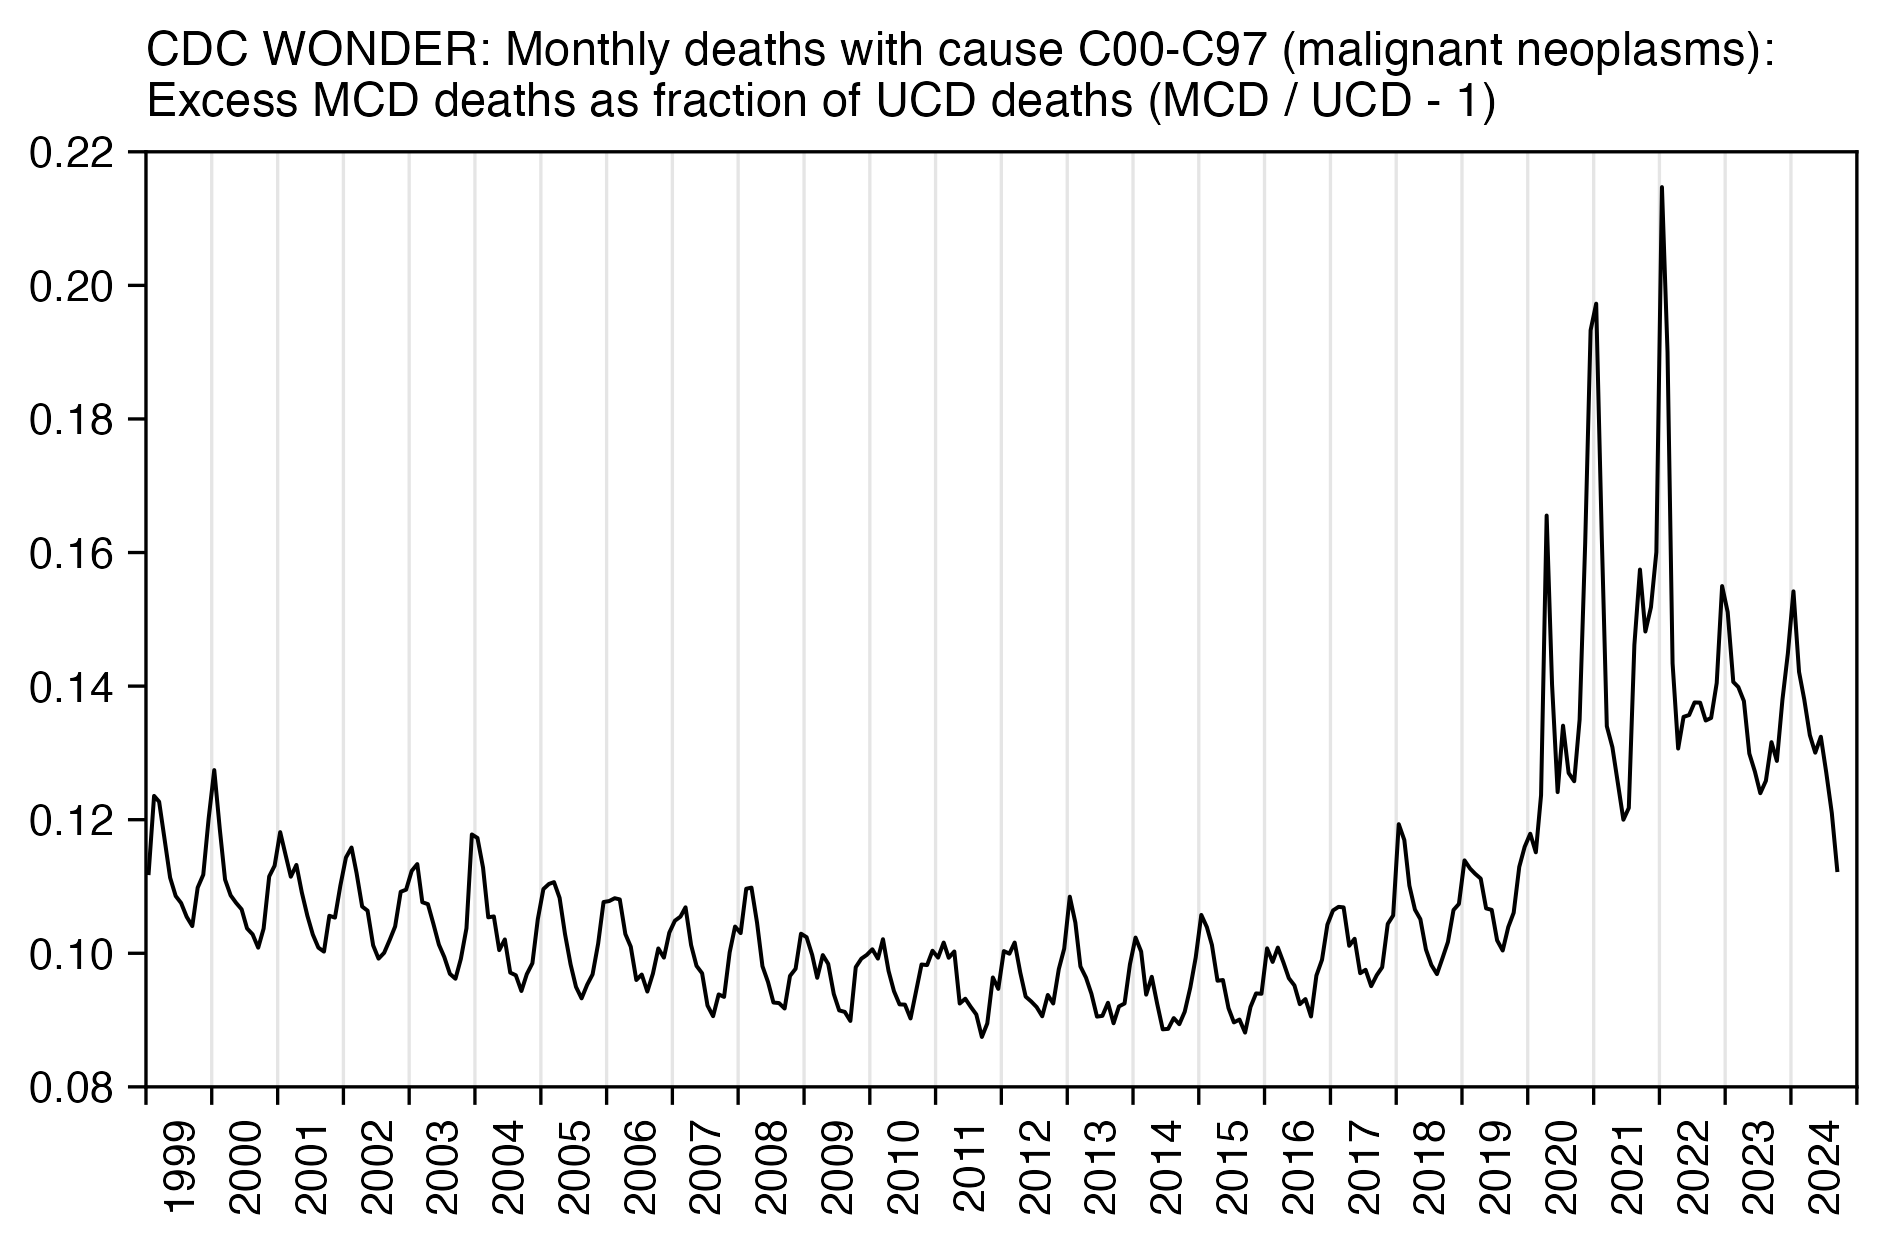
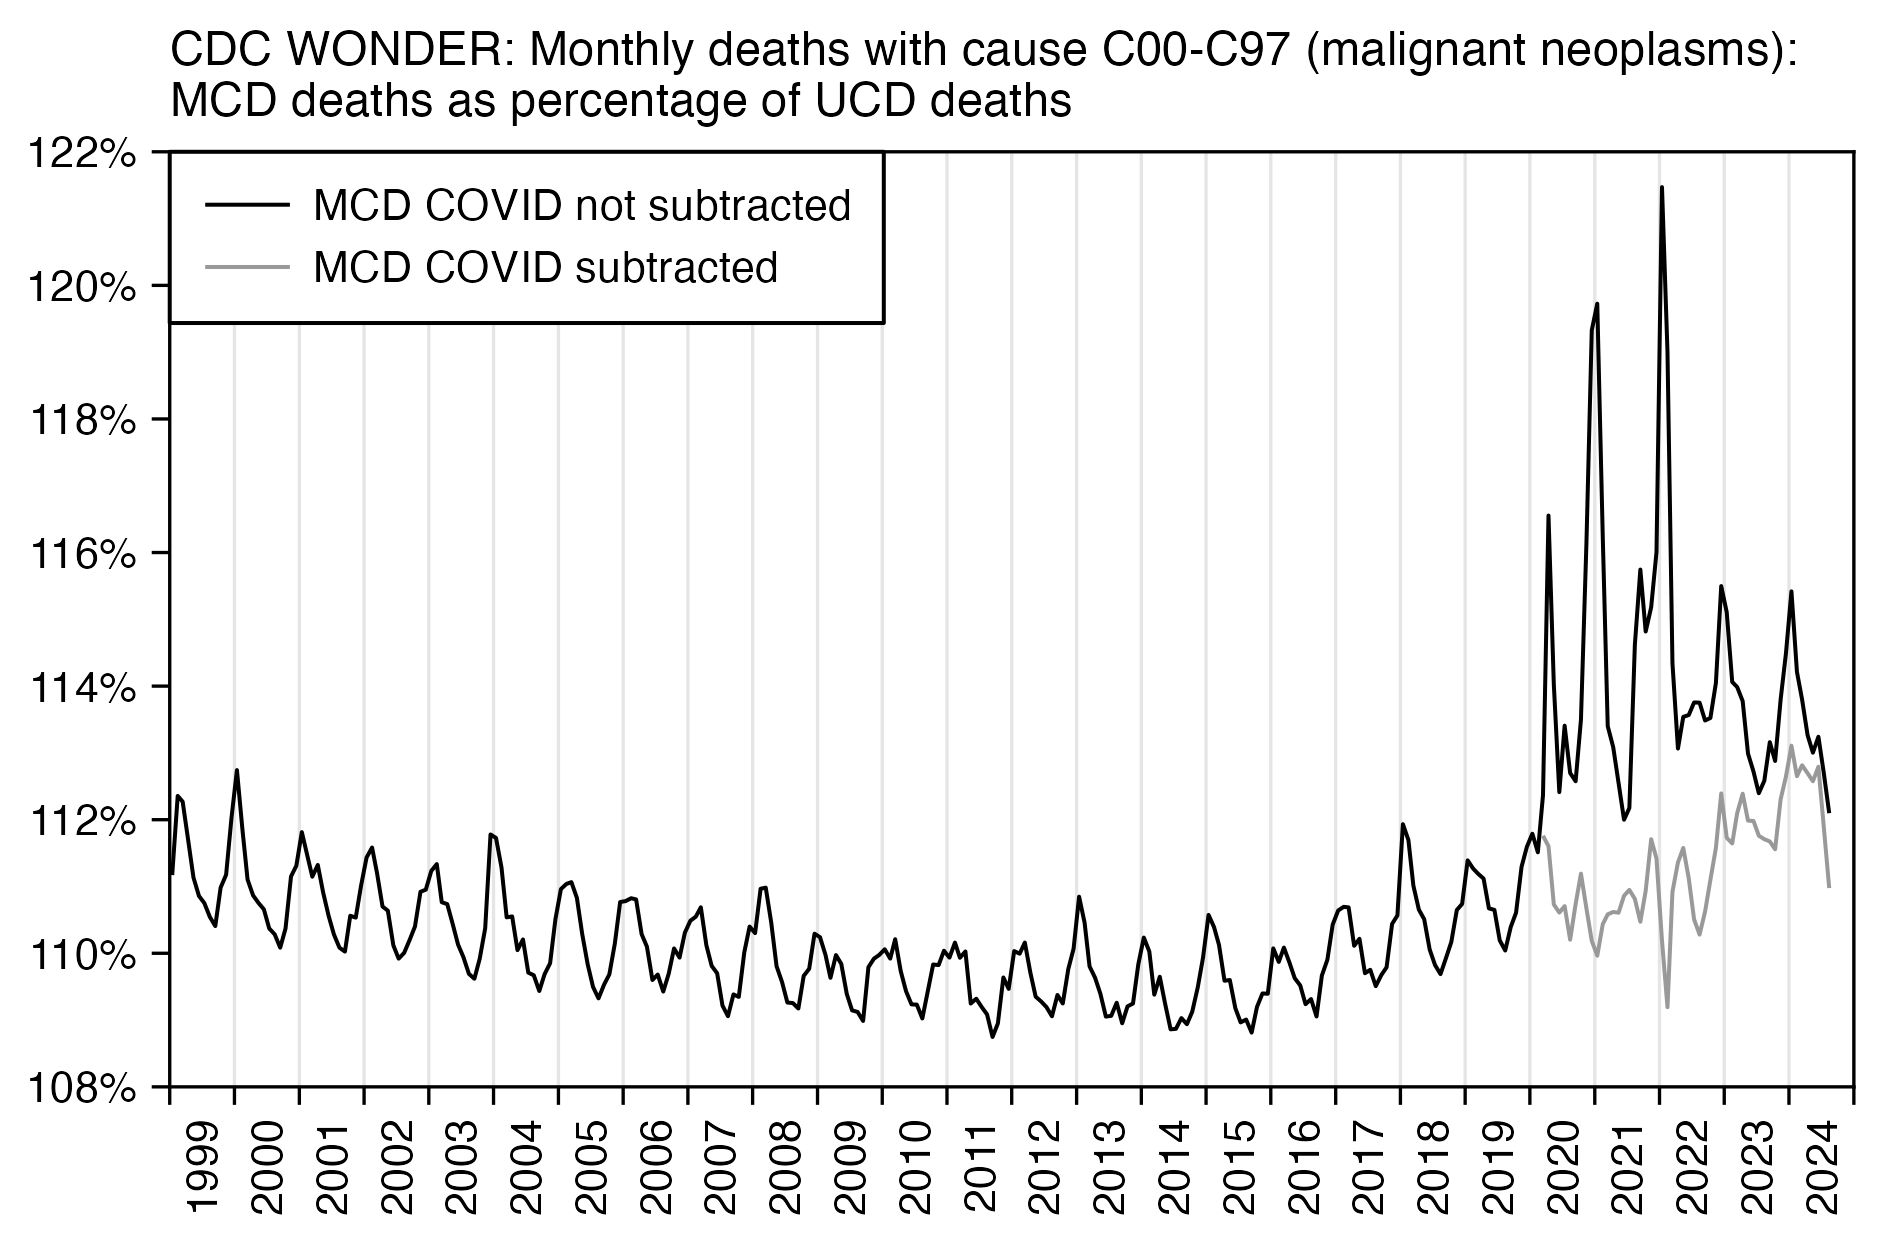
a

Changed region(s): [[0.0, 0.0916, 0.9841, 0.9767], [0.0615, 0.0, 0.9533, 0.1221]]

diff --git a/ethical.html b/ethical.html
@@ -878,7 +878,7 @@ dev.off()</pre>
 <p>The green-to-red line in Chart 5 below shows the CDC Wonder Excess Attributions of underlying cause of death Cancer to multiple cause of death Cancer, per week for the two years prior, as well as years-of and years-post the pandemic. The dotted baseline is normalized from the years 2018-2019, and indexed to the last 7 week average as compared to those same 7 weeks of 2018/19, so it is not a ‘regression’. Since this is a relative index, it should exhibit no trend or growth rate (outside the context of Covid mortality peak periods of course). The current excess of 321 deaths reflects cancer deaths which are concealed from the underlying cause of death ICD code, and must be added back into the mix in order to make Excess Cancer Mortality comparable to its past baseline. We reconcile this into Chart 6 below, applying it only after the pandemic period ended.</p>
 <p><img src=i/ethical-malignant-1.png class=width9><br> <strong>Chart 5 - Cancer Concealment by Excess MCOD Attribution</strong> - stands at 394 concealed cancer deaths per week. In this practice, cancers are moved from the underlying cause of death line in <a href=https://theethicalskeptic.com/wp-content/uploads/2023/12/Blank-Death-Certificate-CA-2021.png>Part I of the death certificate</a>, to one of the multiple cause of death lines above the UCoD line, <strong><em>in excess of past practice</em></strong>. Once Covid has abated, this balance should trend back to zero. It has not. Therefore, in order to capture the true cancer mortality increase, these cancer deaths falsely attributed to Covid and other underlying causes must be added back into the total in the Excess Cancer Mortality chart below. These missing deaths are phased back in from Week 10 of 2022 (point of large decline in Covid mortality) onward.</p>
 </blockquote>
-<p>In the plot above ES seems to have used a flat horizontal baseline to calculate the number of <span class="quote">&quot;excess MCoD attributions&quot;</span> in 2024. However there was already an increasing trend in the MCD to UCD rate before COVID:</p>
+<p>In the plot above ES seems to have used a flat horizontal baseline to calculate the number of <span class="quote">&quot;excess MCoD attributions&quot;</span> in 2024. However the plot below shows that there was already an increasing trend in the MCD to UCD ratio before COVID. And in the gray line below where I subtracted deaths with MCD COVID, the MCD to UCD rate since 2020 seems to roughly follow the prepandemic trend:</p>
 <div class="width6">
 <img src="i/ethical-malignant-6.png">
 </div>
@@ -891,7 +891,7 @@ dev.off()</pre>
 <div class="width7">
 <img src="i/ethical-malignant-5.png">
 </div>
-<p>So in fact the ratio of excess mortality for MCD relative to UCD does in fact get higher in 2023 and 2024. But on the other hand it seems to fit the prepandemic trend of an increasing MCD to UCD ratio.</p>
+<p>However I don't think ES's method of <span class="quote">&quot;excess MCOD normalization&quot;</span> is justified because there was already an increasing trend in MCD to UCD deaths before COVID.</p>
 <script>
 let q=document.querySelectorAll('a,code,pre')
 for(let i=0;e=q[i];i++)e.innerHTML=e.innerHTML.replace(/(\w{60,})/g,x=>x.replace(/./g,"$&<wbr>")).replace(/([\041-\045\047-\057\072\075\077-\100\133-\137\173-\176])/g,"$1<wbr>")
